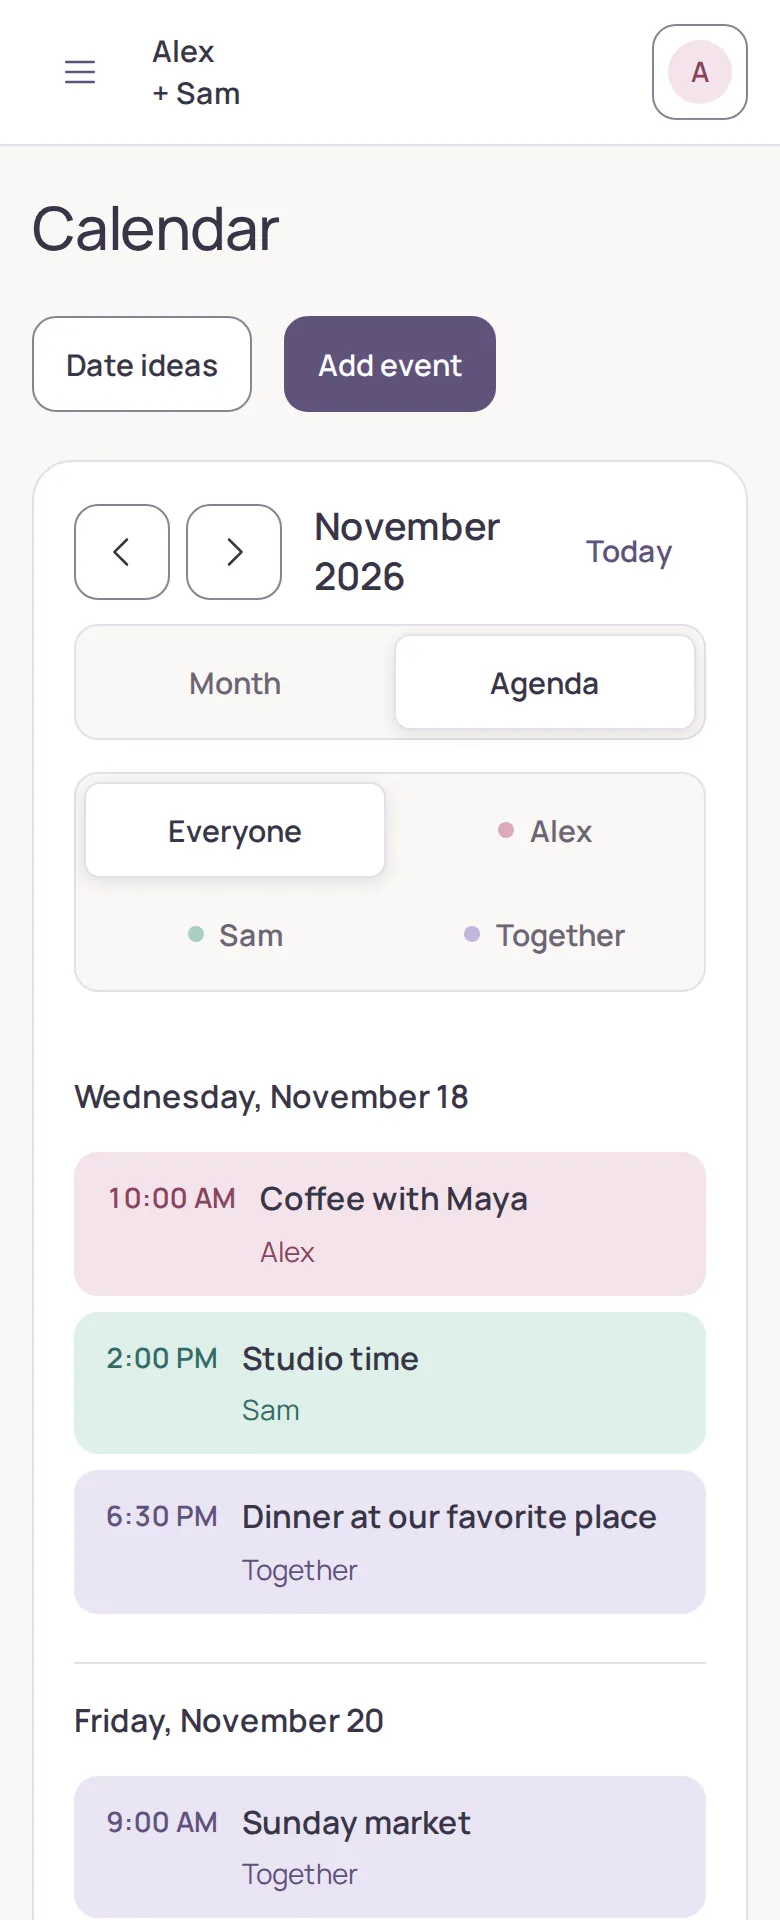
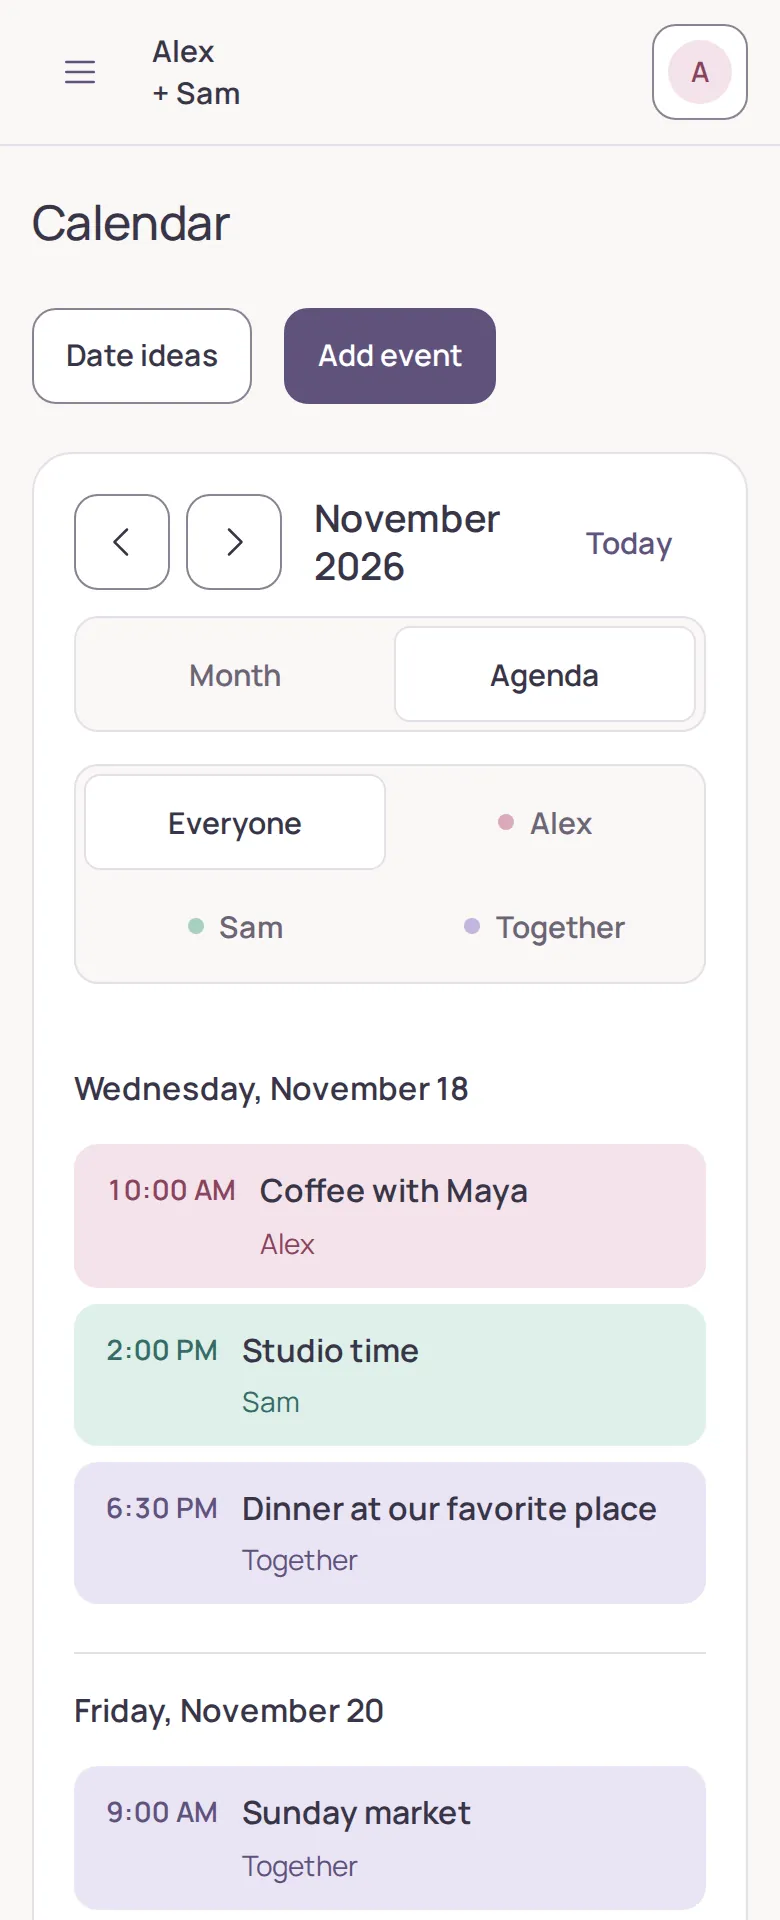
Restyle the portal with the taste-skill app-screen rules (#38)
- Put the sidebar, drawer, and header on the page ground.
- Show the current navigation item as a neutral pill with no shadow.
- Set page titles to 28px (24px on phones) and entry titles to match.
- Give the next plan title the section title size.
- Shade weekend cells in the month grid.
- Put task due dates in a right slot.
- Keep segmented controls to a border, with no shadow.
- Record the rules in DESIGN.md, with credit to taste-skill.
- Refresh the site previews.

Claude-Session: https://claude.ai/code/session_01LMf1feP8RAkw7SnCRQTwtH

diff --git a/apps/web/src/styles/shell.css b/apps/web/src/styles/shell.css
@@ -1,5 +1,5 @@
 .portal { --sidebar-width: 256px; min-height: 100dvh; }
-.sidebar { position: fixed; inset: 0 auto 0 0; width: var(--sidebar-width); background: var(--sidebar); border-right: 1px solid var(--line); display: flex; flex-direction: column; padding: var(--space-6) var(--space-3) var(--space-4); gap: var(--space-6); overflow-y: auto; }
+.sidebar { position: fixed; inset: 0 auto 0 0; width: var(--sidebar-width); background: var(--canvas); border-right: 1px solid var(--line); display: flex; flex-direction: column; padding: var(--space-6) var(--space-3) var(--space-4); gap: var(--space-6); overflow-y: auto; }
 /* The 23px wordmark is a lockup value beside the 40px icon. */
 .brand { display: flex; align-items: center; gap: var(--space-3); padding-left: var(--space-1); font-size: 23px; letter-spacing: -.02em; font-weight: 600; min-height: var(--nav-target); }
 .brand img { display: block; width: 40px; height: 40px; border-radius: var(--radius-control); }
@@ -7,20 +7,20 @@
 .portal-nav, .nav-group { display: grid; gap: var(--space-1); }
 .nav-settings { margin-top: var(--space-4); padding-top: var(--space-4); border-top: 1px solid var(--line); }
 .portal-nav a { display: flex; align-items: center; gap: var(--space-3); min-height: var(--nav-target); font-size: 15px; font-weight: 550; line-height: 1.4; padding: var(--space-3) var(--space-4); border: 1px solid transparent; border-radius: var(--radius-control); text-decoration: none; color: var(--muted); overflow-wrap: anywhere; transition: background-color var(--duration-feedback) var(--ease), color var(--duration-feedback) var(--ease); }
-.portal-nav a:hover { background: var(--surface); color: var(--ink); }
-.portal-nav a[aria-current="page"] { background: var(--action); color: var(--on-action); font-weight: 600; box-shadow: var(--shadow-selected); }
+.portal-nav a:hover { background: color-mix(in srgb, var(--ink) 4%, transparent); color: var(--ink); }
+.portal-nav a[aria-current="page"] { background: color-mix(in srgb, var(--ink) 7%, transparent); color: var(--ink); font-weight: 600; }
 .unread-count { margin-left: auto; background: var(--shared-soft); color: var(--shared); border-radius: var(--radius-badge); padding: 2px var(--space-2); font-size: 12px; font-weight: 600; line-height: 1.4; font-variant-numeric: tabular-nums; }
 .portal-body { margin-left: var(--sidebar-width); min-width: 0; }
-.topbar { min-height: 72px; border-bottom: 1px solid var(--line); padding: var(--space-3) var(--space-8); display: flex; align-items: center; gap: var(--space-4); background: var(--surface); }
+.topbar { min-height: 72px; border-bottom: 1px solid var(--line); padding: var(--space-3) var(--space-8); display: flex; align-items: center; gap: var(--space-4); background: var(--canvas); }
 .topbar-pair { display: flex; align-items: center; gap: var(--space-3); flex: 1 1 0; min-width: 0; }
 .pair-avatars { display: inline-flex; flex-shrink: 0; padding-right: var(--space-1); }
-.pair-avatars .avatar + .avatar { margin-left: calc(-1 * var(--space-2)); outline: 3px solid var(--surface); }
+.pair-avatars .avatar + .avatar { margin-left: calc(-1 * var(--space-2)); outline: 3px solid var(--canvas); }
 .topbar-label { color: var(--ink); font-size: 15px; font-weight: 600; line-height: 1.4; overflow-wrap: anywhere; min-width: 0; }
 .portal main { max-width: calc(var(--content-width) + 2 * var(--space-8)); margin: 0 auto; padding: var(--space-8); }
 .drawer-toggle, .mobile-account { display: none !important; }
 .skip-link { position: fixed; left: var(--space-3); top: -100px; z-index: 20; background: var(--surface); padding: var(--space-3); }
 .skip-link:focus { top: var(--space-3); }
-.navigation-drawer { margin: 0; height: 100dvh; max-height: 100dvh; width: min(320px, 90vw); border-radius: 0; background: var(--sidebar); }
+.navigation-drawer { margin: 0; height: 100dvh; max-height: 100dvh; width: min(320px, 90vw); border-radius: 0; background: var(--canvas); }
 .mobile-account { width: var(--nav-target); padding: 7px; }
 
 /* Rail: the 768px band, and the collapsed sidebar from 1024px. Labels sit under the icons, because touch shows no tooltips. */

diff --git a/apps/web/src/styles/base.css b/apps/web/src/styles/base.css
@@ -11,7 +11,7 @@ button, input, textarea, select { font: inherit; }
 select { background-color: var(--surface); color: var(--ink); }
 a { color: var(--link); text-underline-offset: 4px; }
 h1, h2, h3, p { margin-top: 0; overflow-wrap: anywhere; }
-h1 { font-size: 40px; line-height: 1.1; letter-spacing: -.02em; margin-bottom: 12px; font-weight: 500; text-wrap: balance; }
+h1 { font-size: 28px; line-height: 1.2; letter-spacing: -.02em; margin-bottom: 12px; font-weight: 500; text-wrap: balance; }
 h2 { font-size: 19px; line-height: 1.3; font-weight: 600; }
 h2, h3 { text-wrap: balance; }
 p { text-wrap: pretty; }
@@ -46,14 +46,13 @@ p { text-wrap: pretty; }
 .pair-options h2 { margin-bottom: var(--space-2); }
 .pair-options > section > .button { margin-top: auto; }
 .pair-cancel { border-top: 1px solid var(--line); padding-top: var(--space-4); }
-.invite-code { font-size: 30px; font-weight: 500; line-height: 1.2; font-variant-numeric: tabular-nums; letter-spacing: .08em; background: var(--shared-soft); padding: var(--space-6); border-radius: var(--radius-control); margin-bottom: 0; overflow-wrap: anywhere; }
+.invite-code { font-size: 28px; font-weight: 500; line-height: 1.2; font-variant-numeric: tabular-nums; letter-spacing: .08em; background: var(--shared-soft); padding: var(--space-6); border-radius: var(--radius-control); margin-bottom: 0; overflow-wrap: anywhere; }
 .entry-container { padding: var(--space-8); min-height: 100dvh; }
 .entry-brand { display: flex; align-items: center; justify-content: center; gap: var(--space-3); margin: max(0px, 8vh - var(--space-8)) 0 var(--space-6); font-size: 19px; font-weight: 600; }
 .entry-brand picture, .entry-brand img { display: block; border-radius: var(--radius-control); }
 .entry-loading { min-height: 100dvh; display: grid; place-content: center; }
-/* Entry screens share one card: 480px wide, a 30px title, and a full-width main button. */
+/* Entry screens share one card: 480px wide and a full-width main button. */
 .entry-container > .form-page { max-width: 480px; margin-top: 0; }
-:is(.entry-container > .form-page, .entry-card) h1 { font-size: 30px; }
 .entry-container > .form-page form > .button { width: 100%; }
 .entry-page { min-height: calc(100dvh - 2 * var(--space-8)); display: grid; grid-template-columns: 1.1fr 1fr; gap: var(--space-10); align-items: center; max-width: 1200px; margin: auto; }
 .entry-story { padding: var(--space-10); background: var(--sidebar); border-radius: var(--radius-card); }
@@ -65,5 +64,5 @@ p { text-wrap: pretty; }
 .entry-card .button { width: 100%; margin-bottom: var(--space-6); }
 .entry-card .muted { margin-bottom: 0; }
 @media (max-width: 1023px) { .entry-page { grid-template-columns: minmax(0, 1fr); max-width: 560px; align-content: start; } }
-@media (max-width: 767px) { h1 { font-size: 30px; } .card { padding: var(--space-5); } .entry-container { padding: var(--space-4); } .entry-page { gap: var(--space-6); padding: var(--space-8) 0; } .entry-story { padding: var(--space-6); } .entry-story h1 { font-size: 36px; } .welcome-icon { width: 64px; height: 64px; margin-bottom: var(--space-4); } .entry-card { padding: var(--space-5); } .page-header { margin-bottom: var(--space-6); } }
+@media (max-width: 767px) { h1 { font-size: 24px; } .card { padding: var(--space-5); } .entry-container { padding: var(--space-4); } .entry-page { gap: var(--space-6); padding: var(--space-8) 0; } .entry-story { padding: var(--space-6); } .entry-story h1 { font-size: 36px; } .welcome-icon { width: 64px; height: 64px; margin-bottom: var(--space-4); } .entry-card { padding: var(--space-5); } .page-header { margin-bottom: var(--space-6); } }
 .visually-hidden { position: absolute; width: 1px; height: 1px; padding: 0; margin: -1px; overflow: hidden; clip: rect(0 0 0 0); white-space: nowrap; border: 0; }

diff --git a/apps/web/src/styles/planning.css b/apps/web/src/styles/planning.css
@@ -14,7 +14,7 @@
 .task-row-content:hover .task-title { text-decoration: underline; text-underline-offset: 4px; }
 .task-title { font-weight: 600; }
 .task-metadata { display: flex; flex-wrap: wrap; align-items: center; gap: var(--space-1) var(--space-4); color: var(--muted); font-size: 14px; }
-.task-metadata time { font-variant-numeric: tabular-nums; }
+.task-metadata time { margin-left: auto; font-variant-numeric: tabular-nums; }
 .task-metadata .overdue { color: var(--danger); font-weight: 600; }
 .task-metadata .due-today { color: var(--warning); font-weight: 600; }
 .task-completed .task-title { text-decoration: line-through; color: var(--muted); }
@@ -58,7 +58,7 @@
 .important-card h2 { margin-bottom:var(--space-2); }
 .important-card p { margin-bottom:var(--space-3); }
 .important-card .countdown { margin:var(--space-2) 0 var(--space-1); font-size:19px; font-weight:600; color:var(--link); }
-.important-card .countdown strong { font-size:40px; line-height:1.1; font-weight:500; letter-spacing:-.02em; }
+.important-card .countdown strong { font-size:36px; line-height:1.1; font-weight:500; letter-spacing:-.02em; }
 @media (max-width:767px) { .idea-grid { grid-template-columns:1fr; gap:16px; } .section-heading { margin-bottom:16px; } }
 
 .today-intro-actions { display:flex; flex-wrap:wrap; gap:var(--space-4); }
@@ -72,7 +72,7 @@
 .next-plan.owner-a { background:var(--rose-soft); color:var(--rose); }
 .next-plan.owner-b { background:var(--teal-soft); color:var(--teal); }
 .next-plan .eyebrow { color:inherit; margin:0; }
-.next-plan strong { color:var(--ink); font-size:30px; line-height:1.1; letter-spacing:-.02em; font-weight:500; }
+.next-plan strong { color:var(--ink); font-size:19px; line-height:1.3; font-weight:600; }
 .next-plan:active { transform:scale(.98); }
 .today-layout { display:grid; grid-template-columns:minmax(0,1fr) 360px; grid-template-rows:minmax(0,1fr); gap:var(--space-6); flex:1; min-height:0; }
 .today-layout > * { min-width:0; min-height:0; }

diff --git a/apps/web/src/styles/controls.css b/apps/web/src/styles/controls.css
@@ -51,7 +51,7 @@ dialog::backdrop { background: var(--backdrop); }
 /* Segmented control: the pressed segment is a raised surface. Owner color stays for owner segments only. */
 .view-tabs button { display:inline-flex; align-items:center; justify-content:center; gap:var(--space-2); min-height:var(--nav-target); border:1px solid transparent; border-radius:var(--radius-badge); background:transparent; padding:var(--space-2) var(--space-4); color:var(--muted); font-size:15px; font-weight:600; line-height:1.4; cursor:pointer; }
 .view-tabs button:hover { background: var(--surface); color: var(--ink); }
-.view-tabs button[aria-pressed=true] { background:var(--surface); border-color:var(--line); color:var(--ink); box-shadow:var(--shadow-selected); }
+.view-tabs button[aria-pressed=true] { background:var(--surface); border-color:var(--line); color:var(--ink); }
 @media (max-width:767px) { .view-tabs { width:100%; } .view-tabs button { flex:1; padding:var(--space-2); } }
 /* The sign-in code reads as six digits, not as a generic text field. */
 .field input.code-input { max-width: 16ch; font-size: 19px; font-weight: 600; letter-spacing: .3em; font-variant-numeric: tabular-nums; }

diff --git a/apps/web/src/styles/calendar.css b/apps/web/src/styles/calendar.css
@@ -11,6 +11,8 @@
 .month-weekdays span { justify-self: start; box-sizing: content-box; width: var(--nav-target); max-width: calc(100% - 2 * var(--space-2)); padding: var(--space-3) var(--space-2); font-size: 12px; font-weight: 600; color: var(--muted); text-align: center; }
 .month-days { border-top: 1px solid var(--line); border-left: 1px solid var(--line); }
 .month-day { min-width: 0; min-height: 142px; border-right: 1px solid var(--line); border-bottom: 1px solid var(--line); padding: var(--space-2); }
+/* Weeks start on Monday, so the last two cells of each row are the weekend. */
+.month-day:nth-child(7n+6), .month-day:nth-child(7n) { background: var(--canvas); }
 .month-day.outside .day-number { color: var(--muted); font-weight: 500; }
 .day-number { display: block; font-weight: 600; font-variant-numeric: tabular-nums; min-height: var(--nav-target); width: var(--nav-target); max-width: 100%; margin-bottom: var(--space-1); border-radius: 50%; border: 0; background: transparent; color: var(--ink); cursor: pointer; transition: background-color var(--duration-feedback) var(--ease); }
 .day-number:hover { background: var(--sidebar); }

diff --git a/apps/web/src/styles/tokens.css b/apps/web/src/styles/tokens.css
@@ -1,1 +1,1 @@
-:root { --content-width: 1440px; --form-width: 720px; --message-width: 960px; font-family: 'Manrope Variable', system-ui, -apple-system, BlinkMacSystemFont, "Segoe UI", sans-serif; font-size: 16px; --shadow-popover: 0 8px 24px var(--shadow); --duration-feedback: 140ms; --ease: cubic-bezier(.2, .8, .2, 1); color-scheme: light dark; --shadow-selected: 0 2px 8px var(--shadow); }
+:root { --content-width: 1440px; --form-width: 720px; --message-width: 960px; font-family: 'Manrope Variable', system-ui, -apple-system, BlinkMacSystemFont, "Segoe UI", sans-serif; font-size: 16px; --shadow-popover: 0 8px 24px var(--shadow); --duration-feedback: 140ms; --ease: cubic-bezier(.2, .8, .2, 1); color-scheme: light dark; }

diff --git a/DESIGN.md b/DESIGN.md
@@ -85,15 +85,15 @@ typography:
     letterSpacing: "-0.02em"
   headline:
     fontFamily: "Manrope Variable, system-ui, -apple-system, BlinkMacSystemFont, Segoe UI, sans-serif"
-    fontSize: "40px"
+    fontSize: "28px"
     fontWeight: 500
-    lineHeight: 1.1
+    lineHeight: 1.2
     letterSpacing: "-0.02em"
   headline-mobile:
     fontFamily: "Manrope Variable, system-ui, -apple-system, BlinkMacSystemFont, Segoe UI, sans-serif"
-    fontSize: "30px"
+    fontSize: "24px"
     fontWeight: 500
-    lineHeight: 1.1
+    lineHeight: 1.2
     letterSpacing: "-0.02em"
   title:
     fontFamily: "Manrope Variable, system-ui, -apple-system, BlinkMacSystemFont, Segoe UI, sans-serif"
@@ -225,7 +225,8 @@ The type, label, depth, and motion rules follow [unslop](https://github.com/heyd
 
 - Pastel fills with dark text and dark essential boundaries.
 - A stable color for each partner, always shown with a name.
-- Flat cards with one-pixel borders; shadows only on popovers, dialogs, and selected navigation.
+- One page ground for the sidebar, header, and content. Color goes on partners, events, and actions, not on navigation.
+- Flat cards with one-pixel borders; shadows only on popovers and dialogs.
 - Manrope type in the browser and real text for labels and numbers.
 
 ### Platforms
@@ -247,7 +248,7 @@ The frontmatter holds both palettes: light keys have no suffix, and dark keys en
 ### Primary
 
 - **Plum Primary** (`primary` #60527C, dark #BBA4F7; `on-primary` #FFFFFF, dark #1A1526): the one main button of a page. `on-primary` is also the danger button text.
-- **Lilac Action** (`action` #DDD4EE, dark #3A3056): selected navigation and selected dates. `action-hover` (#D2C6E7) on hover.
+- **Lilac Action** (`action` #DDD4EE, dark #3A3056): selected dates. `action-hover` (#D2C6E7) on hover.
 - **Deep Plum Text on Action** (`on-action` #413852): text on pastel action surfaces.
 - **Plum Action Border** (`action-border` #786A8B): pastel action boundary.
 - **Plum Link** (`link` #60527C): text buttons and links.
@@ -268,7 +269,7 @@ The frontmatter holds both palettes: light keys have no suffix, and dark keys en
 - **Muted** (`muted` #6C6475): secondary text and timestamps.
 - **Line** (`line` #E5DEE8): decorative dividers and card borders.
 - **Control** (`control` #8B8293): input and checkbox boundaries.
-- **Pale Lavender Sidebar** (`sidebar` #F3EEF7): navigation surface.
+- **Pale Lavender Fill** (`sidebar` #F3EEF7): hover fills, the important date, the welcome story, and the message composer.
 - **Focus** (`focus` #68518C): focus ring.
 
 ### Status
@@ -319,8 +320,7 @@ Sources: [WCAG text contrast](https://www.w3.org/WAI/WCAG22/Understanding/contra
 | Role | Desktop | Mobile | Weight / line height |
 |---|---|---|---|
 | Browser welcome title (display) | 48px | 36px | 500 / 1.2 |
-| Browser page title (headline) | 40px | 30px | 500 / 1.1 |
-| Entry card title | 30px | 30px | 500 / 1.1 |
+| Browser page title (headline) | 28px | 24px | 500 / 1.2 |
 | Native page title | 28dp | 28dp | 700 / 34dp |
 | Section title (title) | 19px | 19px | 600 / 1.3 |
 | Eyebrow above a title (eyebrow) | 12px | 12px | 600 / 1.5 |
@@ -369,10 +369,13 @@ Surfaces are flat. A one-pixel `line` border separates cards from the canvas.
 ### Shadow Vocabulary
 
 - **Popover** (`box-shadow: 0 8px 24px var(--shadow)`): popovers and dialogs.
-- **Selected** (`box-shadow: 0 2px 8px var(--shadow)`): the selected navigation item.
 - **Backdrop** (`backdrop`): the scrim behind modal dialogs.
 
-**The Flat Card Rule.** Reserve shadows for popovers, dialogs, and selected navigation. Never color a shadow.
+**The Flat Card Rule.** Reserve shadows for popovers and dialogs. Never color a shadow. A surface gets a border or a shadow, never both.
+
+**The Quiet Shell Rule.** The sidebar, the drawer, and the header sit on `canvas`. The current navigation item is a neutral pill: `ink` at 7% with `ink` text. Hover is `ink` at 4%.
+
+**The Working Screen Rule.** Portal screens are worked in, not read once. Page titles stay at 32px or less, and the next plan title uses the section title size. In the month grid, weekend cells use `canvas`, one tone step from the card. These rules follow the app-screen chapter of [taste-skill](https://github.com/Leonxlnx/taste-skill) 2.1.5 by Leonxlnx (MIT). Its violet ban does not apply: the lavender palette is the brand.
 
 ### Motion
 
